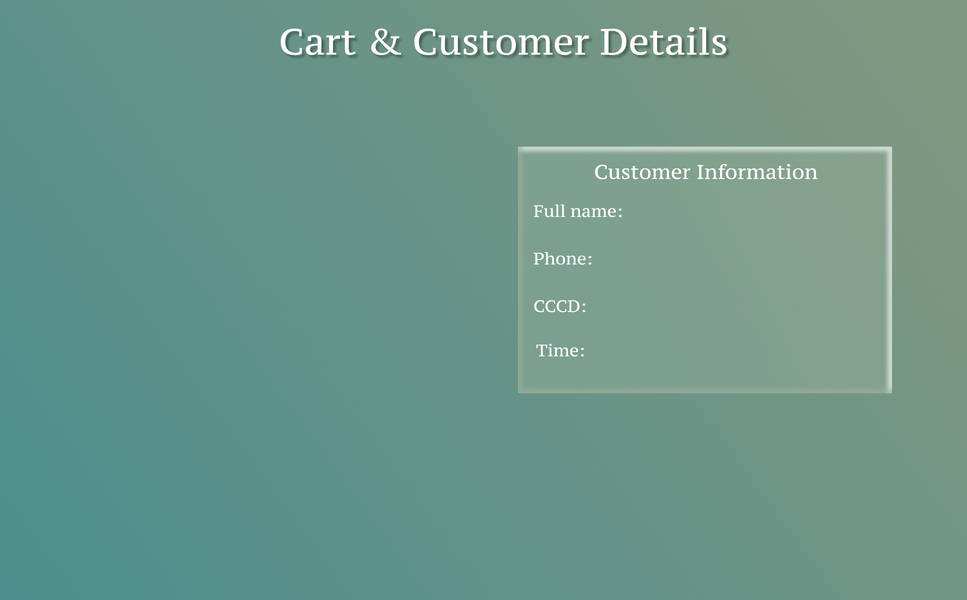
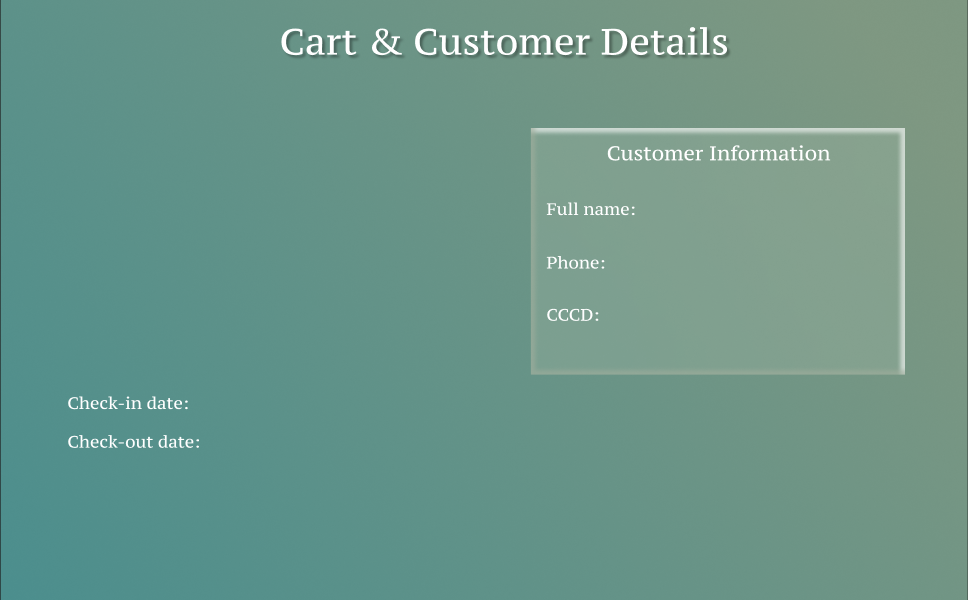
update dev

diff --git a/Modules/Users/Cart_and_Customer/Cart_and_Customer_view.py b/Modules/Users/Cart_and_Customer/Cart_and_Customer_view.py
@@ -22,17 +22,19 @@ class CartCustomerDetails:
 
 
         self.entry_name = Entry(bd=0, bg="#D9D9D9", fg="#000716", highlightthickness=0)
-        self.entry_name.place(x=636.6665, y=197.3333, width=232.0, height=26.6667)
+        self.entry_name.place(x=648.89, y=198.07, width=232.0, height=26.6667)
 
         self.entry_phone = Entry(bd=0, bg="#D9D9D9", fg="#000716", highlightthickness=0)
-        self.entry_phone.place(x=636.6665, y=244.0, width=232.0, height=26.6667)
+        self.entry_phone.place(x=648.89, y=250.42, width=232.0, height=26.6667)
 
         self.entry_cccd = Entry(bd=0, bg="#D9D9D9", fg="#000716", highlightthickness=0)
-        self.entry_cccd.place(x=636.6665, y=290.6667, width=232.0, height=26.6667)
+        self.entry_cccd.place(x=648.89, y=300.1, width=232.0, height=26.6667)
 
-        self.entry_time = Entry(bd=0, bg="#D9D9D9", fg="#000716", highlightthickness=0)
-        self.entry_time.place(x=636.6665, y=337.3333, width=232.0, height=26.6667)
+        self.entry_dayin = Entry(bd=0, bg="#D9D9D9", fg="#000716", highlightthickness=0)
+        self.entry_dayin.place(x=224.08, y=392, width=151.39, height=23.33)
 
+        self.entry_dayout = Entry(bd=0, bg="#D9D9D9", fg="#000716", highlightthickness=0)
+        self.entry_dayout.place(x=224.08, y=428.67, width=151.39, height=23.33)
 
         self.btn_img_booking = PhotoImage(file=self.relative_to_assets("button_booking.png"))
         self.button_booking = Button(image=self.btn_img_booking, borderwidth=0, highlightthickness=0,activebackground="#6C9587", command=lambda: print("Booking button clicked"),relief="flat")
@@ -52,11 +54,15 @@ class CartCustomerDetails:
 
         self.btn_img_confirm = PhotoImage(file=self.relative_to_assets("button_confirm.png"))
         self.button_confirm = Button(image=self.btn_img_confirm, borderwidth=0, highlightthickness=0,activebackground="#6C9587", command=lambda: print("Confirm button clicked"),relief="flat")
-        self.button_confirm.place(x=645.0, y=407.0, width=104.0, height=42.0)
+        self.button_confirm.place(x=670.0, y=407.0, width=104.0, height=42.0)
 
-        self.btn_img_delete = PhotoImage(file=self.relative_to_assets("button_delete.png"))
-        self.button_delete = Button(image=self.btn_img_delete, borderwidth=0, highlightthickness=0,activebackground="#6C9587", command=lambda: print("Delete button clicked"),relief="flat")
-        self.button_delete.place(x=390.6665, y=94.6667, width=60.0, height=23.7778)
+        self.btn_img_add = PhotoImage(file=self.relative_to_assets("button_add.png"))
+        self.button_add = Button(image=self.btn_img_add, borderwidth=0, highlightthickness=0,activebackground="#6C9587", command=lambda: print("add button clicked"),relief="flat")
+        self.button_add.place(x=234.75, y=470.67, width=52.68, height=23.67)
+
+        self.btn_img_remove = PhotoImage(file=self.relative_to_assets("button_remove.png"))
+        self.button_remove = Button(image=self.btn_img_remove, borderwidth=0, highlightthickness=0,activebackground="#6C9587", command=lambda: print("remove button clicked"),relief="flat")
+        self.button_remove.place(x=299.44, y=470.67, width=76.03, height=23.33)
 
         self.window.mainloop()
 

diff --git a/Modules/Users/Select_Room/Select_Room_view.py b/Modules/Users/Select_Room/Select_Room_view.py
@@ -21,11 +21,6 @@ class SelectRoom:
         self.background_img = PhotoImage(file=self.relative_to_assets("background_select_room.png"))
         self.canvas.create_image(483.0, 300.0, image=self.background_img)
 
-
-        self.entry = Entry(bd=0, bg="#D9D9D9", fg="#000716", highlightthickness=0)
-        self.entry.place(x=165.333, y=89.333, width=600.667, height=28.0)
-
-
         self.button_booking_img = PhotoImage(file=self.relative_to_assets("button_booking.png"))
         self.button_booking = Button(image=self.button_booking_img, borderwidth=0, highlightthickness=0, activebackground="#6C947F",
                                       command=lambda: print("Booking button clicked"), relief="flat")
@@ -47,9 +42,8 @@ class SelectRoom:
         self.button_back.place(x=668.0, y=524.0, width=109.0, height=47.0)
 
         self.button_add_img = PhotoImage(file=self.relative_to_assets("button_add.png"))
-        self.button_add = Button(image=self.button_add_img, borderwidth=0, highlightthickness=0, activebackground="#6C947F",
-                                  command=lambda: print("Add button clicked"), relief="flat")
-        self.button_add.place(x=710.0, y=92.667, width=52.667, height=23.667)
+        self.button_add = Button(image=self.button_add_img, borderwidth=0, highlightthickness=0, activebackground="#6C947F",command=lambda: print("Add button clicked"), relief="flat")
+        self.button_add.place(x=683, y=455, width=80.9, height=36.35)
 
         self.window.mainloop()
 

diff --git a/Modules/Users/Invoice/Invoice_view.py b/Modules/Users/Invoice/Invoice_view.py
@@ -17,14 +17,14 @@ class Invoice:
         self.assets_frame_path = OUTPUT_PATH.parent.parent.parent / "Images" / "Users" / "Invoice"
 
         self.window.iconphoto(False, PhotoImage(file=self.relative_to_assets("icon.png", "Frame")))
-        self.background_img = PhotoImage(file=self.relative_to_assets("background_invoice.png", "Frame"))
+        self.background_img = PhotoImage(file=self.relative_to_assets("background_invoices.png", "Frame"))
         self.canvas.create_image(483.0, 300.0, image=self.background_img)
 
-        self.entry = Entry(bd=0, bg="#D9D9D9", fg="#000716", highlightthickness=0)
-        self.entry.place(x=404.6665, y=300.0, width=244.6667, height=26.6667)
+        self.entry_total = Entry(bd=0, bg="#D9D9D9", fg="#000716", highlightthickness=0)
+        self.entry_total.place(x=427.48, y=464.49, width=244.75, height=28.68)
 
 
-        self.canvas.create_text(278.6665, 300.0, anchor="nw", text="Total Cost:", fill="#FFFFFF", font=("PTSerif Caption", 20 * -1))
+
 
         self.button_img_back = PhotoImage(file=self.relative_to_assets("button_back.png", "Frame"))
         self.button_back = Button(image=self.button_img_back, borderwidth=0, highlightthickness=0, activebackground="#6C9587", command=lambda: print("Back button clicked"), relief="flat")
